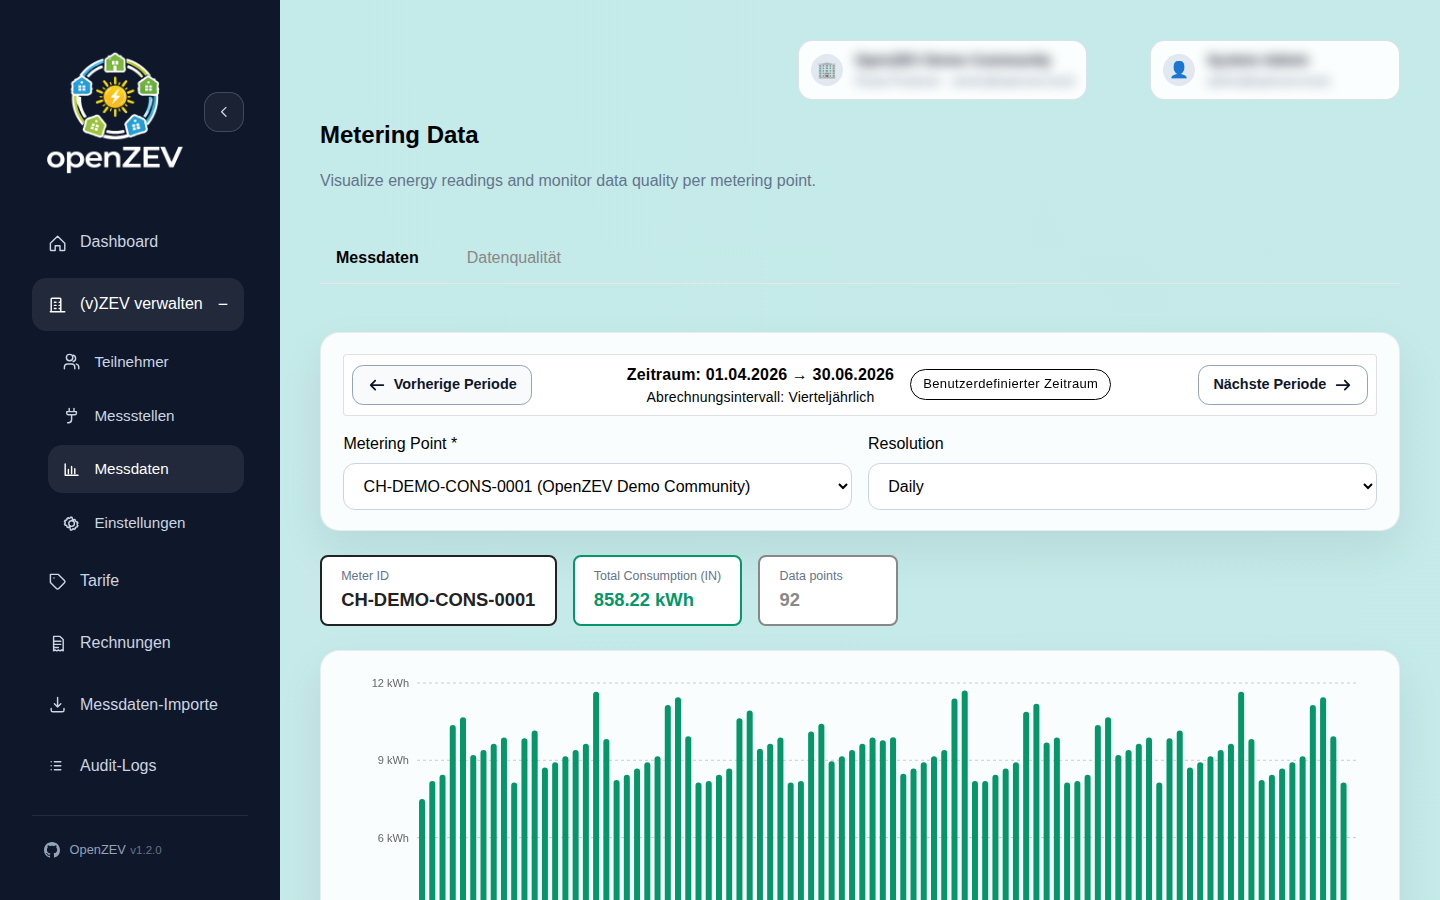
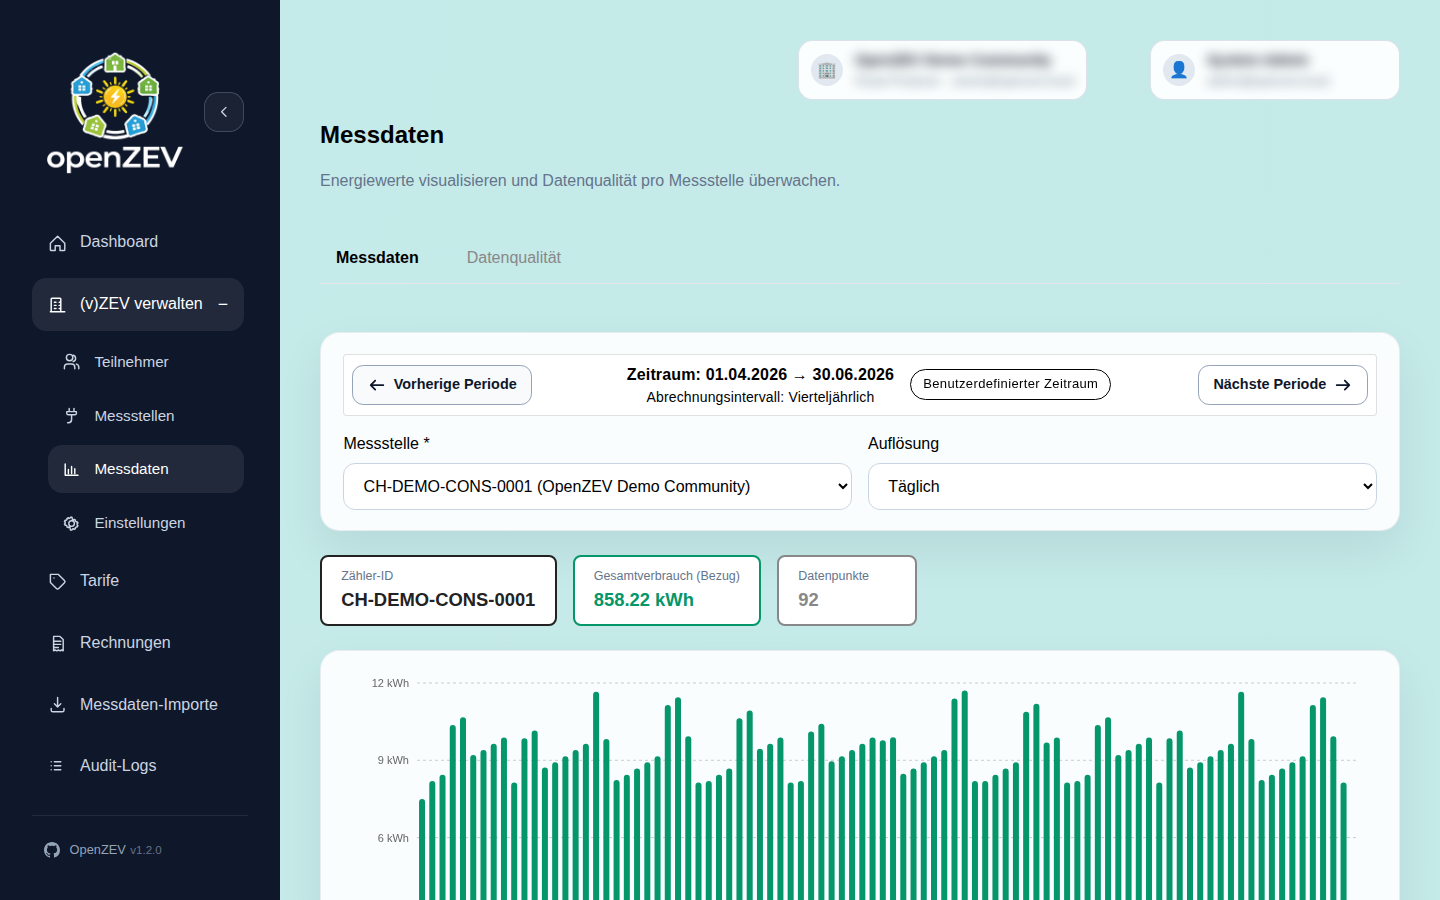
fix(frontend): migrate the Metering Data page to i18n
MeteringChartPage called t() 32 times yet hardcoded its title,
description, filter labels, resolution options, stat tiles, chart series
names, loading/error/empty states and both raw-data tables in English.
The page rendered half-German for a German user.

Adds a pages.meteringData namespace with 30 keys in all four locales,
mirroring the structure used by the other pages. "kWh" stays as-is; it
is a unit, not prose.

Also refreshes 05-metering-data.png, which documented the English UI.

diff --git a/frontend/src/pages/MeteringChartPage.tsx b/frontend/src/pages/MeteringChartPage.tsx
@@ -233,8 +233,8 @@ export function MeteringChartPage() {
     return (
         <div className="page-stack">
             <header>
-                <h2>Metering Data</h2>
-                <p className="muted">Visualize energy readings and monitor data quality per metering point.</p>
+                <h2>{t('pages.meteringData.title')}</h2>
+                <p className="muted">{t('pages.meteringData.description')}</p>
             </header>
 
             {/* ── Tabs ──────────────────────────────────────────────────────────── */}
@@ -297,12 +297,12 @@ export function MeteringChartPage() {
                         }}
                     >
                         <label>
-                            <span>Metering Point *</span>
+                            <span>{t('pages.meteringData.meteringPoint')}</span>
                             <select
                                 value={selectedMpId}
                                 onChange={(e) => handleMpChange(e.target.value)}
                             >
-                                <option value="">Select metering point…</option>
+                                <option value="">{t('pages.meteringData.selectMeteringPoint')}</option>
                                 {meteringPoints.map((mp) => (
                                     <option key={mp.id} value={mp.id}>
                                         {mp.meter_id}
@@ -313,14 +313,14 @@ export function MeteringChartPage() {
                         </label>
 
                         <label>
-                            <span>Resolution</span>
+                            <span>{t('pages.meteringData.resolution')}</span>
                             <select
                                 value={bucket}
                                 onChange={(e) => setBucket(e.target.value as 'day' | 'hour' | 'month')}
                             >
-                                <option value="hour">Hourly</option>
-                                <option value="day">Daily</option>
-                                <option value="month">Monthly</option>
+                                <option value="hour">{t('pages.meteringData.resolutions.hour')}</option>
+                                <option value="day">{t('pages.meteringData.resolutions.day')}</option>
+                                <option value="month">{t('pages.meteringData.resolutions.month')}</option>
                             </select>
                         </label>
                     </div>
@@ -337,12 +337,12 @@ export function MeteringChartPage() {
                         }}
                     >
                         <label>
-                            <span>{t('meteringDataQuality.meterId')} (optional)</span>
+                            <span>{t('pages.meteringData.meterIdOptional')}</span>
                             <select
                                 value={selectedMpId}
                                 onChange={(e) => handleMpChange(e.target.value)}
                             >
-                                <option value="">All metering points…</option>
+                                <option value="">{t('pages.meteringData.allMeteringPoints')}</option>
                                 {meteringPoints.map((mp) => (
                                     <option key={mp.id} value={mp.id}>
                                         {mp.meter_id}
@@ -368,14 +368,14 @@ export function MeteringChartPage() {
                     {/* ── Loading / error ───────────────────────────────────────────────── */}
                     {selectedMpId && chartQuery.isLoading && (
                         <div className="card" style={{ textAlign: 'center', padding: '2rem' }}>
-                            Loading chart data…
+                            {t('pages.meteringData.loadingChart')}
                         </div>
                     )}
                     {selectedMpId && chartQuery.isError && (
-                        <div className="card error-banner">Failed to load chart data.</div>
+                        <div className="card error-banner">{t('pages.meteringData.chartError')}</div>
                     )}
                     {selectedMpId && rawDataQuery.isError && (
-                        <div className="card error-banner">Failed to load raw metering data table.</div>
+                        <div className="card error-banner">{t('pages.meteringData.rawTableError')}</div>
                     )}
 
                     {/* ── Results ───────────────────────────────────────────────────────── */}
@@ -385,25 +385,25 @@ export function MeteringChartPage() {
                             <div style={{ display: 'flex', gap: '1rem', flexWrap: 'wrap' }}>
                                 {selectedMp && (
                                     <StatBadge
-                                        label="Meter ID"
+                                        label={t('pages.meteringData.stats.meterId')}
                                         value={selectedMp.meter_id}
                                         color="var(--color-text, #222)"
                                     />
                                 )}
                                 <StatBadge
-                                    label="Total Consumption (IN)"
+                                    label={t('pages.meteringData.stats.totalConsumption')}
                                     value={`${totalIn.toFixed(2)} kWh`}
                                     color="#059669"
                                 />
                                 {hasOut && (
                                     <StatBadge
-                                        label="Total Feed-in (OUT)"
+                                        label={t('pages.meteringData.stats.totalFeedIn')}
                                         value={`${totalOut.toFixed(2)} kWh`}
                                         color="#0284c7"
                                     />
                                 )}
                                 <StatBadge
-                                    label="Data points"
+                                    label={t('pages.meteringData.stats.dataPoints')}
                                     value={String(data.length)}
                                     color="var(--color-text-muted, #888)"
                                 />
@@ -411,7 +411,7 @@ export function MeteringChartPage() {
 
                             {data.length === 0 ? (
                                 <div className="card" style={{ textAlign: 'center', padding: '2rem', color: 'var(--color-text-muted, #888)' }}>
-                                    No readings found for the selected period and metering point.
+                                    {t('pages.meteringData.noReadings')}
                                 </div>
                             ) : (
                                 <div className="card" style={{ padding: '1.5rem' }}>
@@ -442,7 +442,7 @@ export function MeteringChartPage() {
                                             <Legend />
                                             <Bar
                                                 dataKey="in_kwh"
-                                                name="Consumption (IN)"
+                                                name={t('pages.meteringData.series.consumption')}
                                                 fill="#059669"
                                                 radius={[3, 3, 0, 0]}
                                                 maxBarSize={48}
@@ -450,7 +450,7 @@ export function MeteringChartPage() {
                                             {hasOut && (
                                                 <Bar
                                                     dataKey="out_kwh"
-                                                    name="Feed-in (OUT)"
+                                                    name={t('pages.meteringData.series.feedIn')}
                                                     fill="#0284c7"
                                                     radius={[3, 3, 0, 0]}
                                                     maxBarSize={48}
@@ -462,25 +462,25 @@ export function MeteringChartPage() {
                             )}
 
                             <div className="table-card">
-                                <h3>Raw Data by Day</h3>
+                                <h3>{t('pages.meteringData.rawTable.title')}</h3>
                                 <p className="muted" style={{ marginTop: 0 }}>
-                                    One row per day in the selected period. Each row contains all raw readings for that day.
+                                    {t('pages.meteringData.rawTable.description')}
                                 </p>
 
                                 {rawDataQuery.isLoading ? (
-                                    <div style={{ padding: '1rem 0' }}>Loading raw data table…</div>
+                                    <div style={{ padding: '1rem 0' }}>{t('pages.meteringData.loadingRawTable')}</div>
                                 ) : rawDailyRows.length === 0 ? (
                                     <div style={{ padding: '1rem 0' }} className="muted">
-                                        No raw metering readings found for the selected period.
+                                        {t('pages.meteringData.noRawReadings')}
                                     </div>
                                 ) : (
                                     <table>
                                         <thead>
                                             <tr>
-                                                <th>Day</th>
-                                                <th>IN total (kWh)</th>
-                                                <th>OUT total (kWh)</th>
-                                                <th>Raw readings</th>
+                                                <th>{t('pages.meteringData.rawTable.day')}</th>
+                                                <th>{t('pages.meteringData.rawTable.inTotal')}</th>
+                                                <th>{t('pages.meteringData.rawTable.outTotal')}</th>
+                                                <th>{t('pages.meteringData.rawTable.rawReadings')}</th>
                                             </tr>
                                         </thead>
                                         <tbody>
@@ -493,8 +493,8 @@ export function MeteringChartPage() {
                                                         <table style={{ width: '100%', borderCollapse: 'collapse', fontSize: '0.85em' }}>
                                                             <thead>
                                                                 <tr>
-                                                                    <th style={{ textAlign: 'left', padding: '0.2rem 0.5rem', color: 'var(--color-muted)' }}>Time</th>
-                                                                    <th style={{ textAlign: 'left', padding: '0.2rem 0.5rem', color: 'var(--color-muted)' }}>Dir</th>
+                                                                    <th style={{ textAlign: 'left', padding: '0.2rem 0.5rem', color: 'var(--color-muted)' }}>{t('pages.meteringData.rawTable.time')}</th>
+                                                                    <th style={{ textAlign: 'left', padding: '0.2rem 0.5rem', color: 'var(--color-muted)' }}>{t('pages.meteringData.rawTable.direction')}</th>
                                                                     <th style={{ textAlign: 'right', padding: '0.2rem 0.5rem', color: 'var(--color-muted)' }}>kWh</th>
                                                                 </tr>
                                                             </thead>

diff --git a/frontend/src/i18n/locales/fr.ts b/frontend/src/i18n/locales/fr.ts
@@ -1205,6 +1205,46 @@ export const fr = {
                 bidirectional: 'Bidirectionnel',
             },
         },
+        meteringData: {
+            title: 'Données de comptage',
+            description: 'Visualiser les relevés d\'énergie et surveiller la qualité des données par point de mesure.',
+            meteringPoint: 'Point de mesure *',
+            selectMeteringPoint: 'Sélectionner un point de mesure…',
+            allMeteringPoints: 'Tous les points de mesure…',
+            meterIdOptional: 'ID du compteur (optionnel)',
+            resolution: 'Résolution',
+            resolutions: {
+                hour: 'Horaire',
+                day: 'Journalière',
+                month: 'Mensuelle',
+            },
+            stats: {
+                meterId: 'ID du compteur',
+                totalConsumption: 'Consommation totale (soutirage)',
+                totalFeedIn: 'Injection totale',
+                dataPoints: 'Points de données',
+            },
+            series: {
+                consumption: 'Consommation (soutirage)',
+                feedIn: 'Injection',
+            },
+            loadingChart: 'Chargement des données du graphique…',
+            loadingRawTable: 'Chargement du tableau de données brutes…',
+            chartError: 'Échec du chargement des données du graphique.',
+            rawTableError: 'Échec du chargement du tableau de données brutes.',
+            noReadings: 'Aucun relevé trouvé pour la période et le point de mesure sélectionnés.',
+            noRawReadings: 'Aucun relevé brut trouvé pour la période sélectionnée.',
+            rawTable: {
+                title: 'Données brutes par jour',
+                description: 'Une ligne par jour de la période sélectionnée. Chaque ligne contient tous les relevés bruts du jour.',
+                day: 'Jour',
+                inTotal: 'Soutirage total (kWh)',
+                outTotal: 'Injection totale (kWh)',
+                rawReadings: 'Relevés bruts',
+                time: 'Heure',
+                direction: 'Sens',
+            },
+        },
         zevSettings: {
             title: 'Paramètres',
             description: 'Modifier les détails du ZEV sélectionné.',

diff --git a/frontend/src/i18n/locales/it.ts b/frontend/src/i18n/locales/it.ts
@@ -1205,6 +1205,46 @@ export const it = {
                 bidirectional: 'Bidirezionale',
             },
         },
+        meteringData: {
+            title: 'Dati di misurazione',
+            description: 'Visualizza le letture di energia e monitora la qualità dei dati per punto di misurazione.',
+            meteringPoint: 'Punto di misurazione *',
+            selectMeteringPoint: 'Seleziona un punto di misurazione…',
+            allMeteringPoints: 'Tutti i punti di misurazione…',
+            meterIdOptional: 'ID contatore (opzionale)',
+            resolution: 'Risoluzione',
+            resolutions: {
+                hour: 'Oraria',
+                day: 'Giornaliera',
+                month: 'Mensile',
+            },
+            stats: {
+                meterId: 'ID contatore',
+                totalConsumption: 'Consumo totale (prelievo)',
+                totalFeedIn: 'Immissione totale',
+                dataPoints: 'Punti dati',
+            },
+            series: {
+                consumption: 'Consumo (prelievo)',
+                feedIn: 'Immissione',
+            },
+            loadingChart: 'Caricamento dei dati del grafico…',
+            loadingRawTable: 'Caricamento della tabella dei dati grezzi…',
+            chartError: 'Impossibile caricare i dati del grafico.',
+            rawTableError: 'Impossibile caricare la tabella dei dati grezzi.',
+            noReadings: 'Nessuna lettura trovata per il periodo e il punto di misurazione selezionati.',
+            noRawReadings: 'Nessuna lettura grezza trovata per il periodo selezionato.',
+            rawTable: {
+                title: 'Dati grezzi per giorno',
+                description: 'Una riga per ogni giorno del periodo selezionato. Ogni riga contiene tutte le letture grezze del giorno.',
+                day: 'Giorno',
+                inTotal: 'Prelievo totale (kWh)',
+                outTotal: 'Immissione totale (kWh)',
+                rawReadings: 'Letture grezze',
+                time: 'Ora',
+                direction: 'Dir.',
+            },
+        },
         zevSettings: {
             title: 'Impostazioni',
             description: 'Modifica i dettagli del ZEV selezionato.',

diff --git a/frontend/src/i18n/locales/de.ts b/frontend/src/i18n/locales/de.ts
@@ -1198,6 +1198,46 @@ export const de = {
                 bidirectional: 'Bidirektional',
             },
         },
+        meteringData: {
+            title: 'Messdaten',
+            description: 'Energiewerte visualisieren und Datenqualität pro Messstelle überwachen.',
+            meteringPoint: 'Messstelle *',
+            selectMeteringPoint: 'Messstelle auswählen…',
+            allMeteringPoints: 'Alle Messstellen…',
+            meterIdOptional: 'Zähler-ID (optional)',
+            resolution: 'Auflösung',
+            resolutions: {
+                hour: 'Stündlich',
+                day: 'Täglich',
+                month: 'Monatlich',
+            },
+            stats: {
+                meterId: 'Zähler-ID',
+                totalConsumption: 'Gesamtverbrauch (Bezug)',
+                totalFeedIn: 'Gesamte Einspeisung',
+                dataPoints: 'Datenpunkte',
+            },
+            series: {
+                consumption: 'Verbrauch (Bezug)',
+                feedIn: 'Einspeisung',
+            },
+            loadingChart: 'Diagrammdaten werden geladen…',
+            loadingRawTable: 'Rohdatentabelle wird geladen…',
+            chartError: 'Diagrammdaten konnten nicht geladen werden.',
+            rawTableError: 'Rohdatentabelle konnte nicht geladen werden.',
+            noReadings: 'Keine Messwerte für den gewählten Zeitraum und die gewählte Messstelle gefunden.',
+            noRawReadings: 'Keine Rohmesswerte für den gewählten Zeitraum gefunden.',
+            rawTable: {
+                title: 'Rohdaten nach Tag',
+                description: 'Eine Zeile pro Tag im gewählten Zeitraum. Jede Zeile enthält alle Rohmesswerte dieses Tages.',
+                day: 'Tag',
+                inTotal: 'Bezug gesamt (kWh)',
+                outTotal: 'Einspeisung gesamt (kWh)',
+                rawReadings: 'Rohmesswerte',
+                time: 'Zeit',
+                direction: 'Ri.',
+            },
+        },
         zevSettings: {
             title: 'Einstellungen',
             description: 'Ausgewählte ZEV-Details bearbeiten.',

diff --git a/frontend/src/i18n/locales/en.ts b/frontend/src/i18n/locales/en.ts
@@ -1170,6 +1170,46 @@ export const en = {
                 bidirectional: 'Bidirectional',
             },
         },
+        meteringData: {
+            title: 'Metering Data',
+            description: 'Visualize energy readings and monitor data quality per metering point.',
+            meteringPoint: 'Metering Point *',
+            selectMeteringPoint: 'Select metering point…',
+            allMeteringPoints: 'All metering points…',
+            meterIdOptional: 'Meter ID (optional)',
+            resolution: 'Resolution',
+            resolutions: {
+                hour: 'Hourly',
+                day: 'Daily',
+                month: 'Monthly',
+            },
+            stats: {
+                meterId: 'Meter ID',
+                totalConsumption: 'Total Consumption (IN)',
+                totalFeedIn: 'Total Feed-in (OUT)',
+                dataPoints: 'Data points',
+            },
+            series: {
+                consumption: 'Consumption (IN)',
+                feedIn: 'Feed-in (OUT)',
+            },
+            loadingChart: 'Loading chart data…',
+            loadingRawTable: 'Loading raw data table…',
+            chartError: 'Failed to load chart data.',
+            rawTableError: 'Failed to load raw metering data table.',
+            noReadings: 'No readings found for the selected period and metering point.',
+            noRawReadings: 'No raw metering readings found for the selected period.',
+            rawTable: {
+                title: 'Raw Data by Day',
+                description: 'One row per day in the selected period. Each row contains all raw readings for that day.',
+                day: 'Day',
+                inTotal: 'IN total (kWh)',
+                outTotal: 'OUT total (kWh)',
+                rawReadings: 'Raw readings',
+                time: 'Time',
+                direction: 'Dir',
+            },
+        },
         zevSettings: {
             title: 'Settings',
             description: 'Edit the selected ZEV details.',
